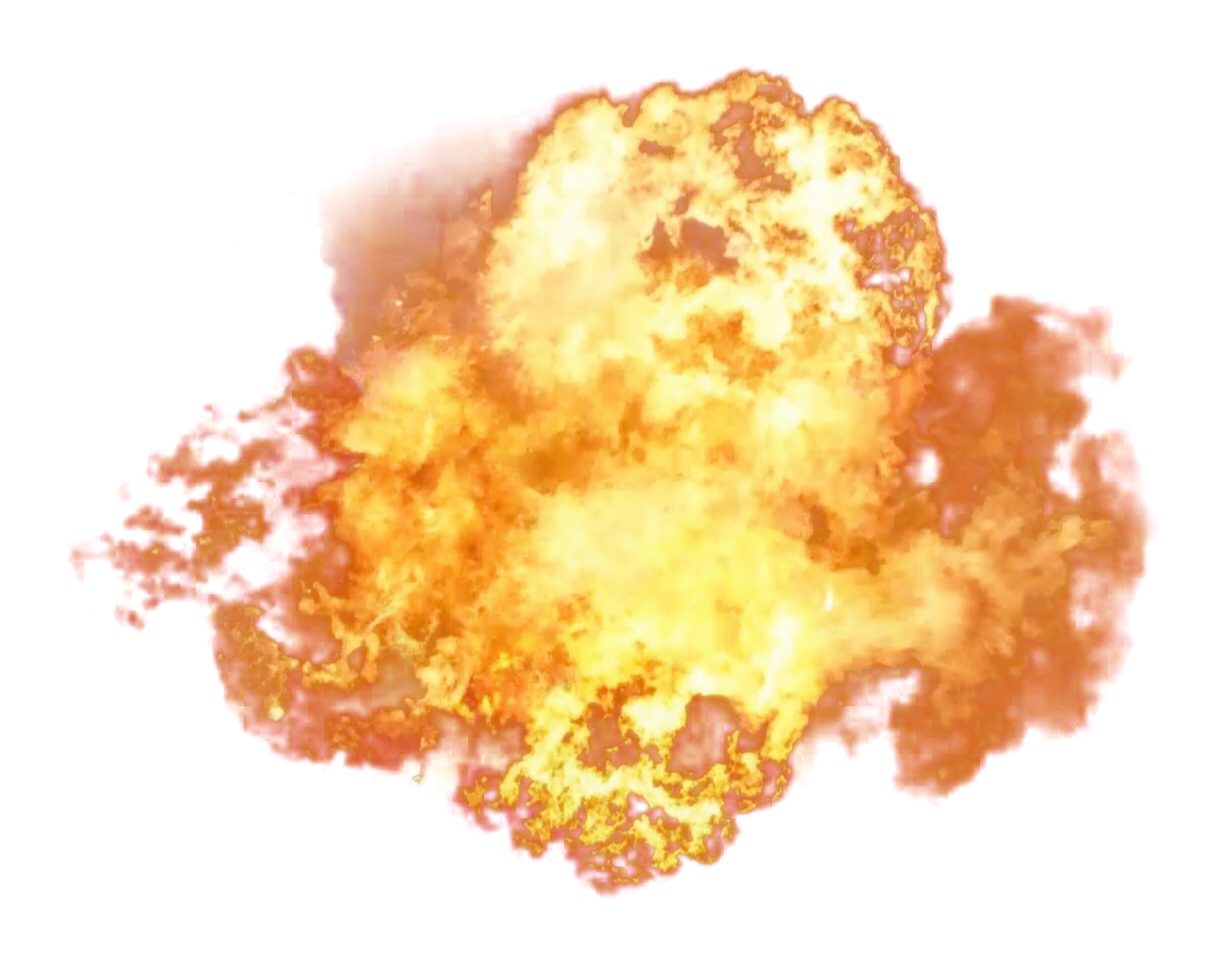
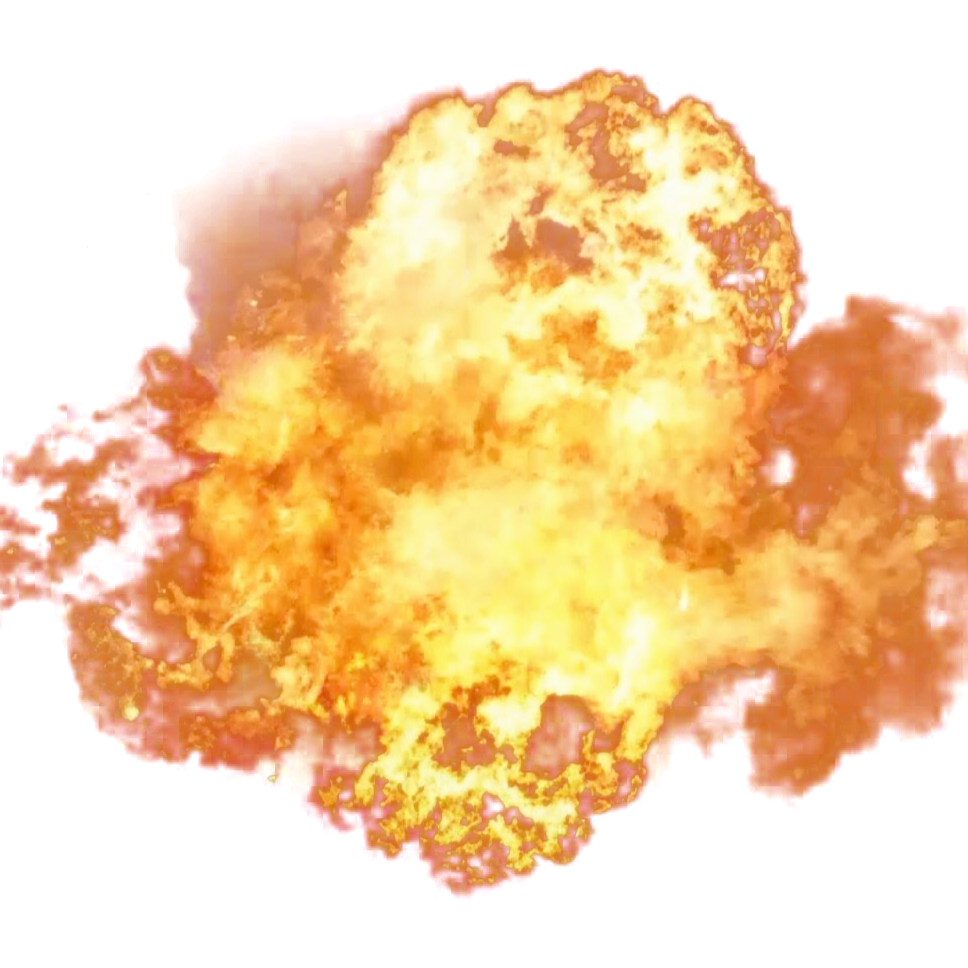
Robbanas kep fix

diff --git a/style.css b/style.css
@@ -17,12 +17,12 @@ table{
 }
 td{
     width: 50px;
+    height: 50px;
     border: solid white 1px;
     margin: 0px;
     padding: 0px;
 }
 tr{
-    height: 50px;
     border: solid white 1px;
     margin: 0px;
 }
@@ -39,7 +39,7 @@ td:first-child{
     background-color: var(--marlott);
 }
 img{
-    width: 50px;
-    height: 50px;
-    padding: 0px;
+    width: 100%;
+    height: 100%;
+    display: block;
 }

diff --git a/script.js b/script.js
@@ -49,8 +49,6 @@ function Katt(td){
     td.style.backgroundColor = "var(--marlott)";
     var kep = document.createElement("img")
     kep.src = "explo.png";
-    // kep.height = 50;
-    // kep.width = 50;
     td.appendChild(kep);
     td.setAttribute("onclick","")
 }
